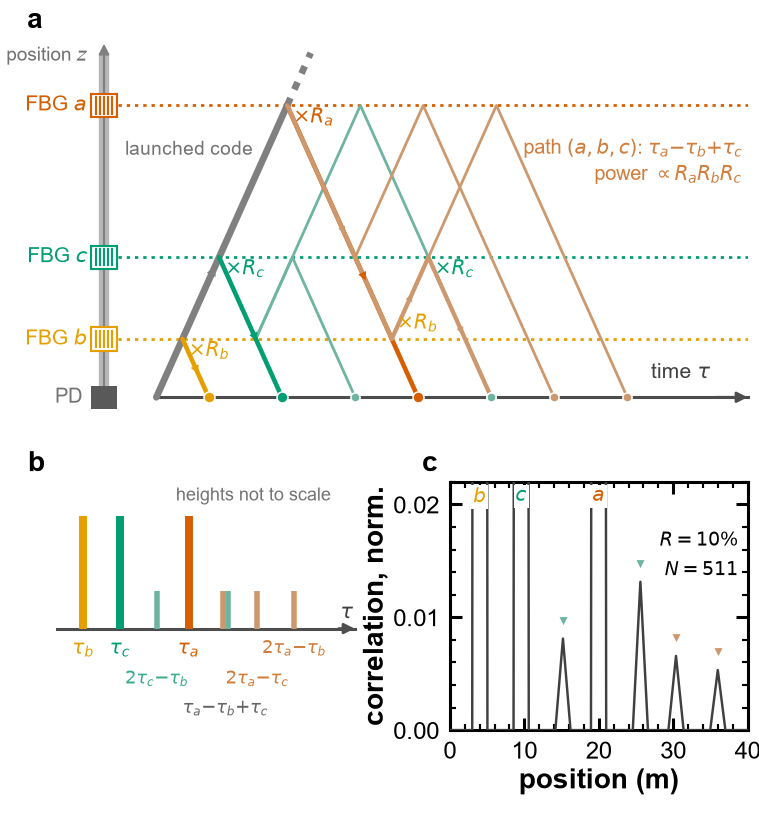
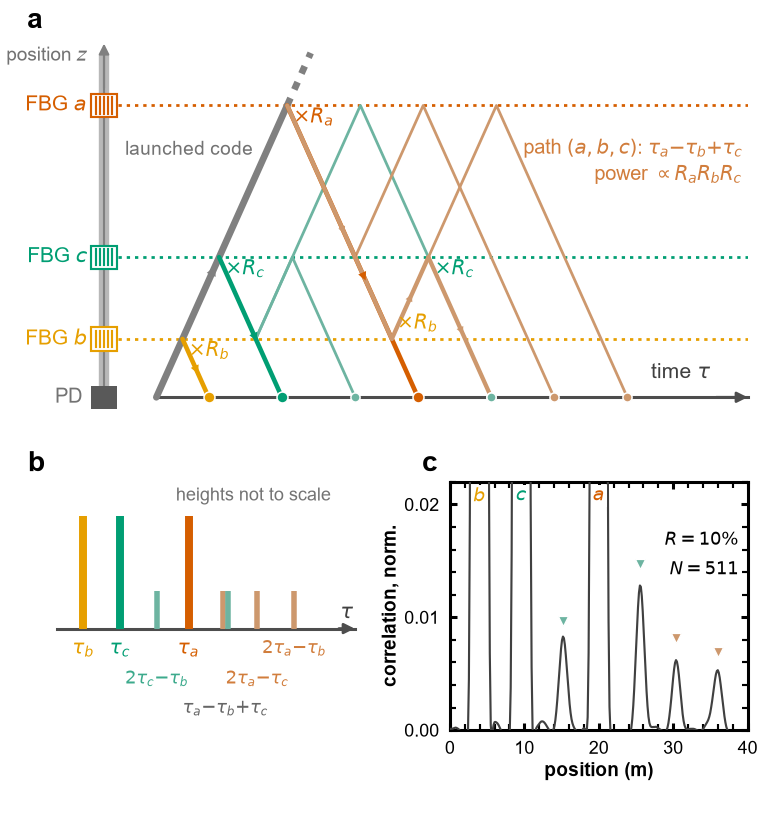
s50 (c): delay profile through the receiver chain (link-budget noise, shot noise, RIN, Bessel LPF, 12-bit ADC), smaller fonts

diff --git a/python_selfcal_cdm/s50_ghostpath.py b/python_selfcal_cdm/s50_ghostpath.py
@@ -194,10 +194,22 @@ bx.spines['bottom'].set_position(('data', 0))
 bx.spines['bottom'].set_bounds(0, TMAX)
 
 # ---------------- (c) delay profile of the time-domain model -----------------
+# Receiver chain as in Section IV: launched power P0 into a link of loss ALPHA,
+# every path up to the third order, photodiode of responsivity RESP with the
+# NEP of the link budget, shot noise of the photocurrent, laser RIN, a 4th-order
+# Bessel low-pass at 0.75 B, a 12-bit ADC at NS samples per chip, record mean
+# removed, periodic correlation with the bipolar replica, constant offset of
+# the periodic correlation (-1/N per return) subtracted.
+from scipy.signal import bessel, filtfilt
 C_LIGHT, NG = 2.998e8, 1.468
-CHIP_RATE, SPC, NBITS, R = 100e6, 16, 9, 0.10
-Z = {'b': 4.0, 'c': 9.6, 'a': 20.0}                 # metres, the ratios of (a)
+CHIP_RATE, NBITS, R = 100e6, 9, 0.10
+SPC_FINE, NS = 32, 8                                 # fine grid and ADC samples per chip
+Z = {'b': 4.0, 'c': 9.6, 'a': 20.0}                  # metres, the ratios of (a)
 M_PER_CHIP = C_LIGHT / NG / CHIP_RATE / 2.0
+P0, ALPHA, NEP, RESP = 1e-3, 10 ** (-4.0 / 10), 0.5e-12, 0.9   # W, link loss, W/sqrt(Hz), A/W
+RIN_DB, ADC_BITS = -130.0, 12
+Q_E = 1.602e-19
+RNG = np.random.default_rng(3)
 
 
 def paths(Zd):
@@ -232,27 +244,42 @@ def paths(Zd):
 def delay_profile(Zd):
     code01 = C._mls01(NBITS)
     n = code01.size
-    tx = np.repeat(code01.astype(float), SPC)
-    rx = np.zeros_like(tx)
+    fs = CHIP_RATE * SPC_FINE
+    tx = np.repeat(code01.astype(float), SPC_FINE)
+    # optical power at the photodiode, one code period, every path
+    popt = np.zeros_like(tx)
     for seq, amp, zpos in paths(Zd):
-        rx += amp * np.roll(tx, int(round(zpos / M_PER_CHIP * SPC)))
-    replica = np.repeat(C._to_pm1(code01).astype(float), SPC)
-    rx = rx - rx.mean()
-    corr = np.fft.ifft(np.fft.fft(rx) * np.conj(np.fft.fft(replica))).real
-    corr /= -(n * SPC / 2.0)                     # a unit return gives a peak of +1
-    corr -= np.median(corr)                      # constant offset of the periodic correlation
-    return np.arange(tx.size) / SPC * M_PER_CHIP, corr, n
+        popt += amp * np.roll(tx, int(round(zpos / M_PER_CHIP * SPC_FINE)))
+    popt *= P0 * ALPHA
+    popt *= 1.0 + RNG.normal(0.0, np.sqrt(10 ** (RIN_DB / 10) * fs / 2), popt.size)   # laser RIN
+    i_pd = RESP * popt
+    i_pd += RNG.normal(0.0, np.sqrt(2 * Q_E * RESP * popt.mean() * fs / 2), i_pd.size)   # shot noise
+    i_pd += RNG.normal(0.0, RESP * NEP * np.sqrt(fs / 2), i_pd.size)                     # receiver NEP
+    b_, a_ = bessel(4, 0.75 * CHIP_RATE / (fs / 2), norm='mag')
+    i_pd = filtfilt(b_, a_, i_pd)                    # receiver low-pass, zero phase
+    dec = SPC_FINE // NS
+    rec = i_pd[dec // 2::dec]                        # ADC samples, NS per chip
+    fsr = 1.2 * rec.max()
+    rec = np.round(rec / fsr * 2 ** (ADC_BITS - 1)) / 2 ** (ADC_BITS - 1) * fsr   # quantization
+    replica = np.repeat(C._to_pm1(code01).astype(float), NS)
+    rec = rec - rec.mean()
+    corr = np.fft.ifft(np.fft.fft(rec) * np.conj(np.fft.fft(replica))).real
+    corr /= -(n * NS / 2.0) * RESP * P0 * ALPHA     # a unit return gives a peak of +1
+    corr -= np.median(corr)                          # constant offset of the periodic correlation
+    return np.arange(rec.size) / NS * M_PER_CHIP, corr, n
 
 
 zaxis, corr, n = delay_profile(Z)
 P = paths(Z)
-ref = P[0][1]
+ref = P[0][1]                                      # ideal amplitude of the first direct return
+ref_meas = corr[(zaxis > 3.0) & (zaxis < 5.0)].max()   # its peak after the receiver chain
+print('first direct return after the receiver chain: %.3f of ideal' % (ref_meas / ref))
 YC = 0.022
 m = zaxis <= 40.0
-cx.plot(zaxis[m], corr[m] / ref, color='0.25', lw=0.8, zorder=3)
+cx.plot(zaxis[m], corr[m] / ref_meas, color='0.25', lw=0.7, zorder=3)
 for seq, amp, zpos in P:
     if len(seq) == 1:
-        cx.text(zpos, YC * 0.98, r'$%s$' % seq[0], color=COL[seq[0]], ha='center', va='top', fontsize=6.6,
+        cx.text(zpos, YC * 0.98, r'$%s$' % seq[0], color=COL[seq[0]], ha='center', va='top', fontsize=6.2,
                 bbox=dict(facecolor='white', edgecolor='none', pad=0.6))
 pos = {}
 for seq, amp, zpos in P:
@@ -260,15 +287,18 @@ for seq, amp, zpos in P:
         pos.setdefault(round(zpos, 3), []).append((seq, amp))
 for zpos, lst in pos.items():
     tot = sum(a for _, a in lst) / ref
-    cx.plot(zpos, tot + 0.0016, 'v', color=GH[lst[0][0][0]], ms=3.4, mec='white', mew=0.4, zorder=5)
+    cx.plot(zpos, tot + 0.0016, 'v', color=GH[lst[0][0][0]], ms=3.2, mec='white', mew=0.4, zorder=5)
 cx.set_xlim(0, 40)
 cx.set_ylim(0, YC)
 cx.set_xticks([0, 10, 20, 30, 40])
 cx.set_yticks([0, 0.01, 0.02])
-cx.set_xlabel('position (m)', labelpad=1.5)
-cx.set_ylabel('correlation, norm.', labelpad=1.5)
-cx.text(0.97, 0.80, r'$R=10\%$', transform=cx.transAxes, ha='right', va='top', fontsize=6.2)
-cx.text(0.97, 0.68, r'$N=511$', transform=cx.transAxes, ha='right', va='top', fontsize=6.2)
+cx.tick_params(labelsize=5.8, length=2.2)
+cx.set_xlabel('position (m)', fontsize=6.2, labelpad=1.5)
+cx.set_ylabel('correlation, norm.', fontsize=6.2, labelpad=1.5)
+cx.text(0.97, 0.80, r'$R=10\%$', transform=cx.transAxes, ha='right', va='top', fontsize=5.8)
+cx.text(0.97, 0.68, r'$N=511$', transform=cx.transAxes, ha='right', va='top', fontsize=5.8)
+quiet = (zaxis > 1.5) & (zaxis < 2.5)
+print('noise rms in the quiet stretch: %.1e of the first direct return' % (np.std(corr[quiet]) / ref_meas))
 
 for a_, let in ((ax, 'a'), (bx, 'b'), (cx, 'c')):
     a_.text(-0.02 if a_ is ax else -0.04, 1.02, let, transform=a_.transAxes, fontsize=9, fontweight='bold',
